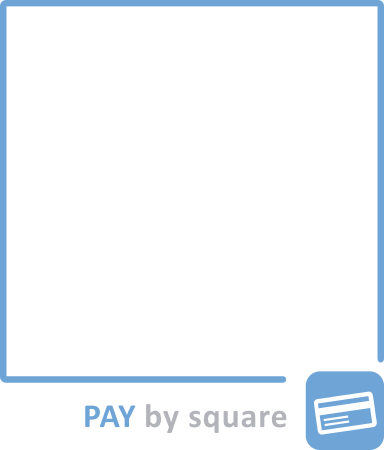
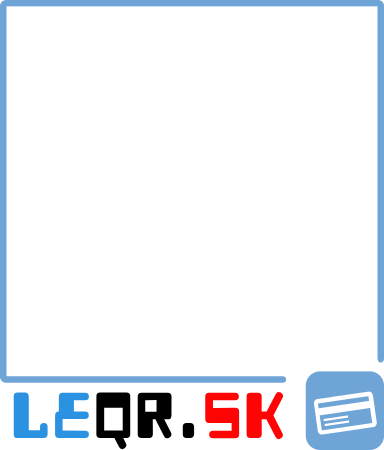
release(fg): 1.1.3 export fixes
- Version bump to 1.1.3\n- QR export: include full framed card, avoid tainted canvas by loading PAY by square image via fetch+blob\n- Save action: simple download (iOS opens image for saving)\n- UI spacing fixes for QR panel

Changed region(s): [[0.0312, 0.8711, 0.75, 1.0]]

diff --git a/fg/index.html b/fg/index.html
@@ -36,7 +36,7 @@
     <meta name="apple-mobile-web-app-title" content="Platba LeQR.SK">
 
     <!-- PWA podpora -->
-    <link rel="manifest" href="manifest.json?v=1.1.2">
+    <link rel="manifest" href="manifest.json?v=1.1.3">
     
     <!-- QR kód s logom - štýly -->
     <style>
@@ -73,7 +73,7 @@
             bottom: 10px !important; /* Posunutie pod QR kód */
             left: 0;
             width: 100%;
-            height: 100% !important;
+            height: 60px !important;
             background-image: url('images/pay-bottom-dark.png');
             background-size: 315px auto; /* Väčšia šírka pre logo */
             background-position: center bottom;
@@ -150,7 +150,7 @@
             
             window.addEventListener('load', function () {
                 // Nová registrácia s cache-busting parametrom
-                navigator.serviceWorker.register('sw.js?v=1.1.2').then(function (registration) {
+                navigator.serviceWorker.register('sw.js?v=1.1.3').then(function (registration) {
                     // Registrácia bola úspešná
                     console.log('ServiceWorker registration successful with scope: ', registration.scope);
                     
@@ -542,11 +542,11 @@
                         </button>
                         <button id="save-qr-btn" onclick="saveQrImage()"
                             class="flex-1 py-3 bg-gradient-to-r from-primary-600 to-secondary-600 hover:from-primary-700 hover:to-secondary-700 rounded-lg text-white font-medium flex items-center justify-center transition duration-200 focus:outline-none focus:ring-2 focus:ring-offset-2 focus:ring-primary-500">
-                            <i class="fas fa-download mr-2"></i> Uložiť / Zdieľať
+                            <i class="fas fa-download mr-2"></i> Uložiť
                         </button>
                     </div>
                     <div id="qr-info"
-                        class="w-full bg-gray-50 p-4 rounded-lg border-l-4 border-primary-500 text-sm hidden">
+                        class="w-full mt-3 bg-gray-50 p-4 rounded-lg border-l-4 border-primary-500 text-sm hidden">
                         <div class="grid grid-cols-1 gap-2">
                             <p><strong>Suma:</strong> <span id="qr-amount"></span></p>
                             <p><strong>IBAN:</strong> <span id="qr-iban"></span></p>
@@ -956,7 +956,38 @@
             return iban.replace(/(.{4})/g, '$1 ').trim();
         }
 
-        function renderQrToCanvas(data, sizePx = 1024) {
+        let payBottomLogoPromise = null;
+        let payBottomLogoObjectUrl = null;
+
+        function getPayBottomLogoImage() {
+            if (payBottomLogoPromise) return payBottomLogoPromise;
+            payBottomLogoPromise = (async () => {
+                try {
+                    const response = await fetch('images/pay-bottom-dark.png', { cache: 'force-cache' });
+                    if (!response.ok) {
+                        throw new Error(`HTTP ${response.status}`);
+                    }
+                    const blob = await response.blob();
+                    payBottomLogoObjectUrl = URL.createObjectURL(blob);
+
+                    const img = new Image();
+                    img.crossOrigin = 'anonymous';
+                    await new Promise((resolve, reject) => {
+                        img.onload = resolve;
+                        img.onerror = reject;
+                        img.src = payBottomLogoObjectUrl;
+                    });
+
+                    return img;
+                } catch (e) {
+                    console.warn('PAY by square logo could not be loaded for export:', e);
+                    return null;
+                }
+            })();
+            return payBottomLogoPromise;
+        }
+
+        async function renderQrToCanvas(data, sizePx = 1024) {
             const typeNumber = 10;
             const errorCorrectionLevel = 'L';
 
@@ -965,25 +996,135 @@
             qr.make();
 
             const moduleCount = qr.getModuleCount();
+
+            // Match UI framing (see .qr-with-logo)
+            const borderPx = 3;
+            const paddingTopPx = 18;
+            const paddingRightPx = 18;
+            const paddingBottomPx = 60;
+            const paddingLeftPx = 18;
+            const cornerRadiusPx = 10;
+            const frameColor = 'rgba(176, 216, 255, 0.9)';
+
+            const contentWidth = sizePx - (2 * borderPx) - paddingLeftPx - paddingRightPx;
+            const contentHeight = sizePx - (2 * borderPx) - paddingTopPx - paddingBottomPx;
+            const qrSizePx = Math.floor(Math.min(contentWidth, contentHeight));
+
+            const startX = borderPx + paddingLeftPx + Math.floor((contentWidth - qrSizePx) / 2);
+            const startY = borderPx + paddingTopPx;
+
             const canvas = document.createElement('canvas');
             canvas.width = sizePx;
             canvas.height = sizePx;
             const ctx = canvas.getContext('2d');
 
-            ctx.fillStyle = '#FFFFFF';
-            ctx.fillRect(0, 0, canvas.width, canvas.height);
+            const roundedRectPath = (x, y, w, h, r) => {
+                const rr = Math.min(r, w / 2, h / 2);
+                ctx.beginPath();
+                ctx.moveTo(x + rr, y);
+                ctx.arcTo(x + w, y, x + w, y + h, rr);
+                ctx.arcTo(x + w, y + h, x, y + h, rr);
+                ctx.arcTo(x, y + h, x, y, rr);
+                ctx.arcTo(x, y, x + w, y, rr);
+                ctx.closePath();
+            };
 
-            const cellSize = sizePx / moduleCount;
+            ctx.clearRect(0, 0, canvas.width, canvas.height);
+
+            // White background
+            ctx.fillStyle = '#FFFFFF';
+            ctx.fillRect(0, 0, sizePx, sizePx);
+
+            // Frame border
+            ctx.strokeStyle = frameColor;
+            ctx.lineWidth = borderPx;
+            roundedRectPath(borderPx / 2, borderPx / 2, sizePx - borderPx, sizePx - borderPx, cornerRadiusPx);
+            ctx.stroke();
+
+            // Draw QR
+            const cellSize = qrSizePx / moduleCount;
             ctx.fillStyle = '#000000';
             for (let row = 0; row < moduleCount; row++) {
                 for (let col = 0; col < moduleCount; col++) {
                     if (qr.isDark(row, col)) {
                         const w = Math.ceil((col + 1) * cellSize) - Math.floor(col * cellSize);
                         const h = Math.ceil((row + 1) * cellSize) - Math.floor(row * cellSize);
-                        ctx.fillRect(Math.round(col * cellSize), Math.round(row * cellSize), w, h);
+                        ctx.fillRect(
+                            Math.round(startX + (col * cellSize)),
+                            Math.round(startY + (row * cellSize)),
+                            w,
+                            h
+                        );
                     }
                 }
             }
+
+            // Draw PAY by square image at bottom (matches CSS background-size: 315px auto, bottom offset 10px)
+            const img = await getPayBottomLogoImage();
+            if (img) {
+                const desiredWidth = Math.min(315, sizePx - 40);
+                const scale = desiredWidth / img.width;
+                const drawW = desiredWidth;
+                const drawH = Math.round(img.height * scale);
+                const drawX = Math.round((sizePx - drawW) / 2);
+                const drawY = Math.round(sizePx - borderPx - 10 - drawH);
+                ctx.drawImage(img, drawX, drawY, drawW, drawH);
+            }
+
+            return canvas;
+        }
+
+        async function renderQrCardToCanvas(data, sizePx = 1024) {
+            // Outer card styling (matches #qr-code container: bg-white p-5 rounded-xl shadow-md)
+            const outerPaddingPx = 20;
+            const cardRadiusPx = 12;
+            const shadowMarginPx = 26;
+
+            const canvas = document.createElement('canvas');
+            canvas.width = sizePx;
+            canvas.height = sizePx;
+            const ctx = canvas.getContext('2d');
+
+            ctx.clearRect(0, 0, canvas.width, canvas.height);
+
+            const roundedRectPath = (x, y, w, h, r) => {
+                const rr = Math.min(r, w / 2, h / 2);
+                ctx.beginPath();
+                ctx.moveTo(x + rr, y);
+                ctx.arcTo(x + w, y, x + w, y + h, rr);
+                ctx.arcTo(x + w, y + h, x, y + h, rr);
+                ctx.arcTo(x, y + h, x, y, rr);
+                ctx.arcTo(x, y, x + w, y, rr);
+                ctx.closePath();
+            };
+
+            const cardX = shadowMarginPx;
+            const cardY = shadowMarginPx;
+            const cardW = sizePx - (2 * shadowMarginPx);
+            const cardH = sizePx - (2 * shadowMarginPx);
+
+            // Shadow behind the card
+            ctx.save();
+            ctx.shadowColor = 'rgba(0, 0, 0, 0.18)';
+            ctx.shadowBlur = 18;
+            ctx.shadowOffsetX = 0;
+            ctx.shadowOffsetY = 8;
+            ctx.fillStyle = '#FFFFFF';
+            roundedRectPath(cardX, cardY, cardW, cardH, cardRadiusPx);
+            ctx.fill();
+            ctx.restore();
+
+            // Card fill (clean edges without shadow)
+            ctx.fillStyle = '#FFFFFF';
+            roundedRectPath(cardX, cardY, cardW, cardH, cardRadiusPx);
+            ctx.fill();
+
+            // Inner framed QR (matches .qr-with-logo)
+            const innerSize = Math.floor(Math.min(cardW, cardH) - (2 * outerPaddingPx));
+            const innerCanvas = await renderQrToCanvas(data, innerSize);
+            const innerX = Math.round(cardX + outerPaddingPx + ((cardW - (2 * outerPaddingPx) - innerSize) / 2));
+            const innerY = Math.round(cardY + outerPaddingPx + ((cardH - (2 * outerPaddingPx) - innerSize) / 2));
+            ctx.drawImage(innerCanvas, innerX, innerY, innerSize, innerSize);
 
             return canvas;
         }
@@ -993,11 +1134,11 @@
             return `leqr-qr-${ts}.png`;
         }
 
-        function getQrPngBlob() {
+        async function getQrPngBlob() {
             if (!lastPayBySquareString) {
                 throw new Error('QR kód nie je pripravený.');
             }
-            const canvas = renderQrToCanvas(lastPayBySquareString, 1024);
+            const canvas = await renderQrCardToCanvas(lastPayBySquareString, 1024);
             return new Promise((resolve, reject) => {
                 canvas.toBlob((blob) => {
                     if (!blob) {
@@ -1032,15 +1173,19 @@
                 const blob = await getQrPngBlob();
                 const file = new File([blob], getQrFilename(), { type: 'image/png' });
 
-                if (navigator.canShare && navigator.canShare({ files: [file] }) && navigator.share) {
-                    await navigator.share({
-                        files: [file],
-                        title: 'Platobný QR kód'
-                    });
+                const url = URL.createObjectURL(blob);
+
+                const ua = navigator.userAgent || '';
+                const isIOS = /iPad|iPhone|iPod/.test(ua) && !window.MSStream;
+
+                if (isIOS) {
+                    // iOS Safari typicky ignoruje download atribút; otvoríme obrázok v novej karte,
+                    // kde si ho používateľ vie uložiť do Fotiek.
+                    window.open(url, '_blank');
+                    setTimeout(() => URL.revokeObjectURL(url), 60_000);
                     return;
                 }
 
-                const url = URL.createObjectURL(blob);
                 const a = document.createElement('a');
                 a.href = url;
                 a.download = file.name;
@@ -1506,7 +1651,7 @@
         }
 
         // Kód pre detekciu aktualizácií aplikácie
-        const APP_VERSION = '1.1.2';
+        const APP_VERSION = '1.1.3';
 
         // Zobrazenie verzie v hlavičke
         document.addEventListener('DOMContentLoaded', function () {
@@ -1594,6 +1739,7 @@
 </body>
 
 </html>
+
 
 
 

diff --git a/fg/sw.js b/fg/sw.js
@@ -1,4 +1,4 @@
-const APP_VERSION = '1.1.2';
+const APP_VERSION = '1.1.3';
 const CACHE_NAME = `leqr-v${APP_VERSION}`;
 const urlsToCache = [
   '/',
@@ -143,6 +143,7 @@ self.addEventListener('message', function(event) {
     self.skipWaiting();
   }
 });
+
 
 
 
